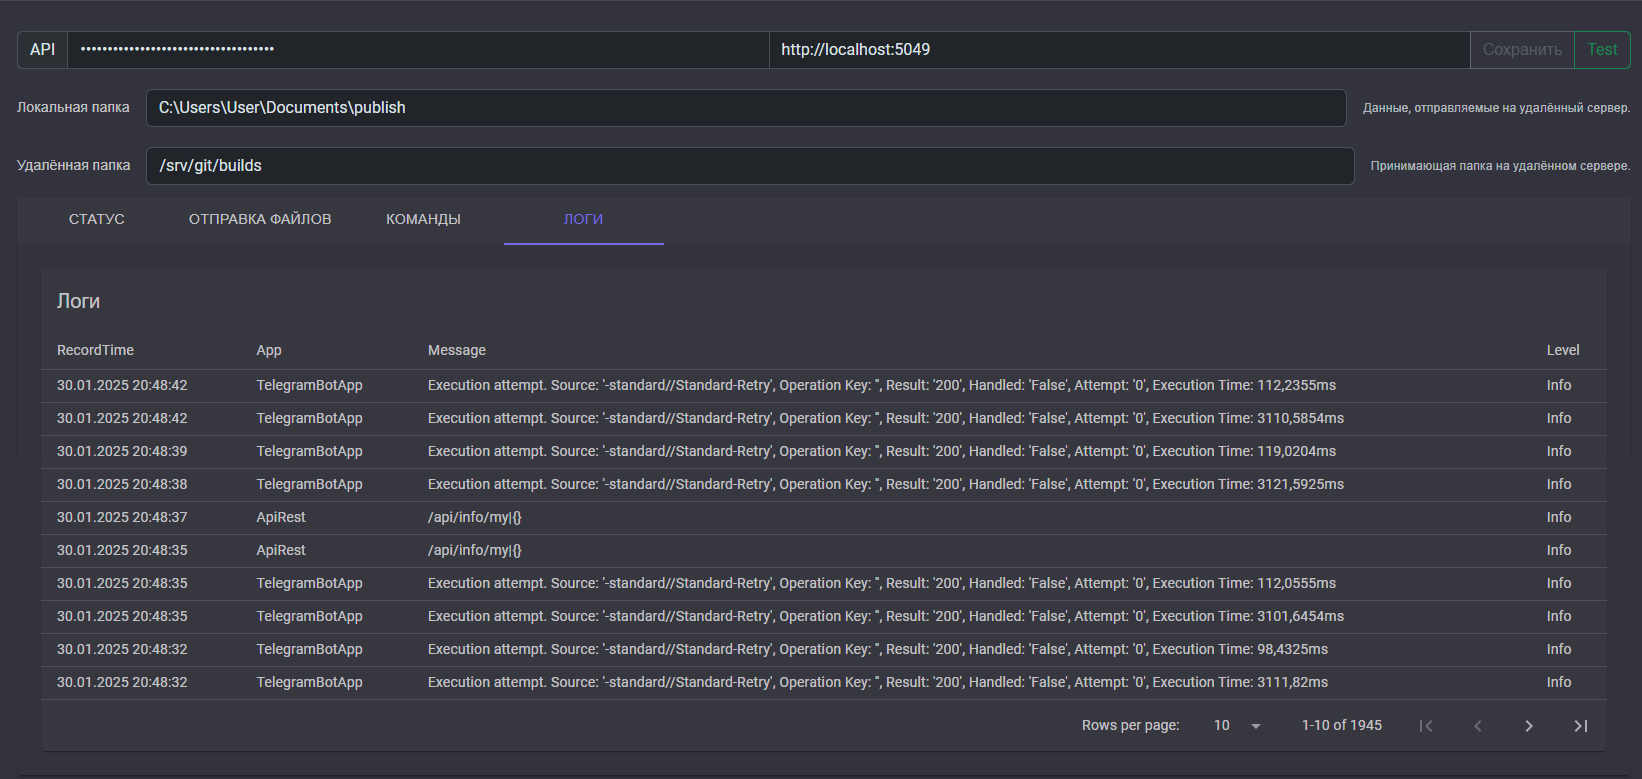
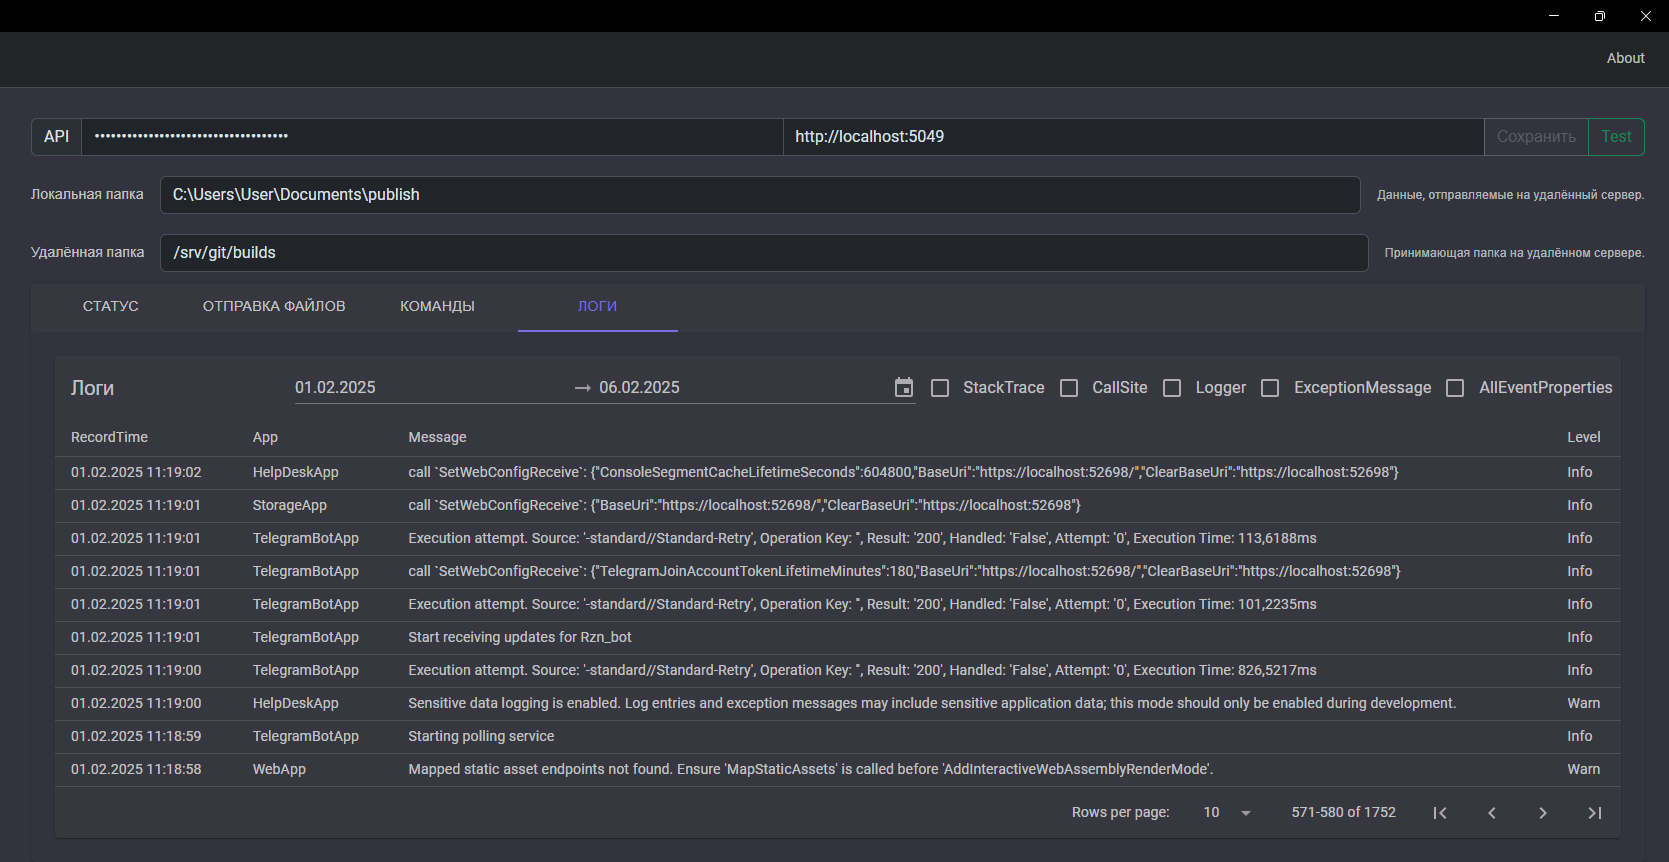
~

diff --git a/ToolsMauiApp/LogsService.cs b/ToolsMauiApp/LogsService.cs
@@ -21,4 +21,13 @@ public class LogsService(IHttpClientFactory HttpClientFactory) : ILogsService
         string rj = await response.Content.ReadAsStringAsync();
         return JsonConvert.DeserializeObject<TPaginationResponseModel<NLogRecordModelDB>>(rj)!;
     }
+
+    /// <inheritdoc/>
+    public async Task<TResponseModel<LogsMetadataResponseModel>> MetadataLogs(PeriodDatesTimesModel req)
+    {
+        using HttpClient client = HttpClientFactory.CreateClient(HttpClientsNamesEnum.Tools.ToString());
+        using HttpResponseMessage response = await client.PostAsJsonAsync($"/{GlobalStaticConstants.Routes.API_CONTROLLER_NAME}/{GlobalStaticConstants.Routes.TOOLS_CONTROLLER_NAME}/{GlobalStaticConstants.Routes.LOGS_ACTION_NAME}-{GlobalStaticConstants.Routes.METADATA_CONTROLLER_NAME}", req);
+        string rj = await response.Content.ReadAsStringAsync();
+        return JsonConvert.DeserializeObject<TResponseModel<LogsMetadataResponseModel>>(rj)!;
+    }
 }

diff --git a/ApiRestService/Controllers/ToolsController.cs b/ApiRestService/Controllers/ToolsController.cs
@@ -38,6 +38,15 @@ public class ToolsController(
     }
 
     /// <summary>
+    /// Чтение логов
+    /// </summary>
+    [HttpPost($"/{GlobalStaticConstants.Routes.API_CONTROLLER_NAME}/{GlobalStaticConstants.Routes.TOOLS_CONTROLLER_NAME}/{GlobalStaticConstants.Routes.LOGS_ACTION_NAME}-{GlobalStaticConstants.Routes.METADATA_CONTROLLER_NAME}")]
+    public async Task<TResponseModel<LogsMetadataResponseModel>> MetadataLogs(PeriodDatesTimesModel req)
+    {
+        return await storeRepo.MetadataLogs(req);
+    }
+
+    /// <summary>
     /// Загрузка порции файла
     /// </summary>
     [HttpPost($"/{GlobalStaticConstants.Routes.API_CONTROLLER_NAME}/{GlobalStaticConstants.Routes.TOOLS_CONTROLLER_NAME}/{GlobalStaticConstants.Routes.PART_CONTROLLER_NAME}-{GlobalStaticConstants.Routes.UPLOAD_ACTION_NAME}")]
